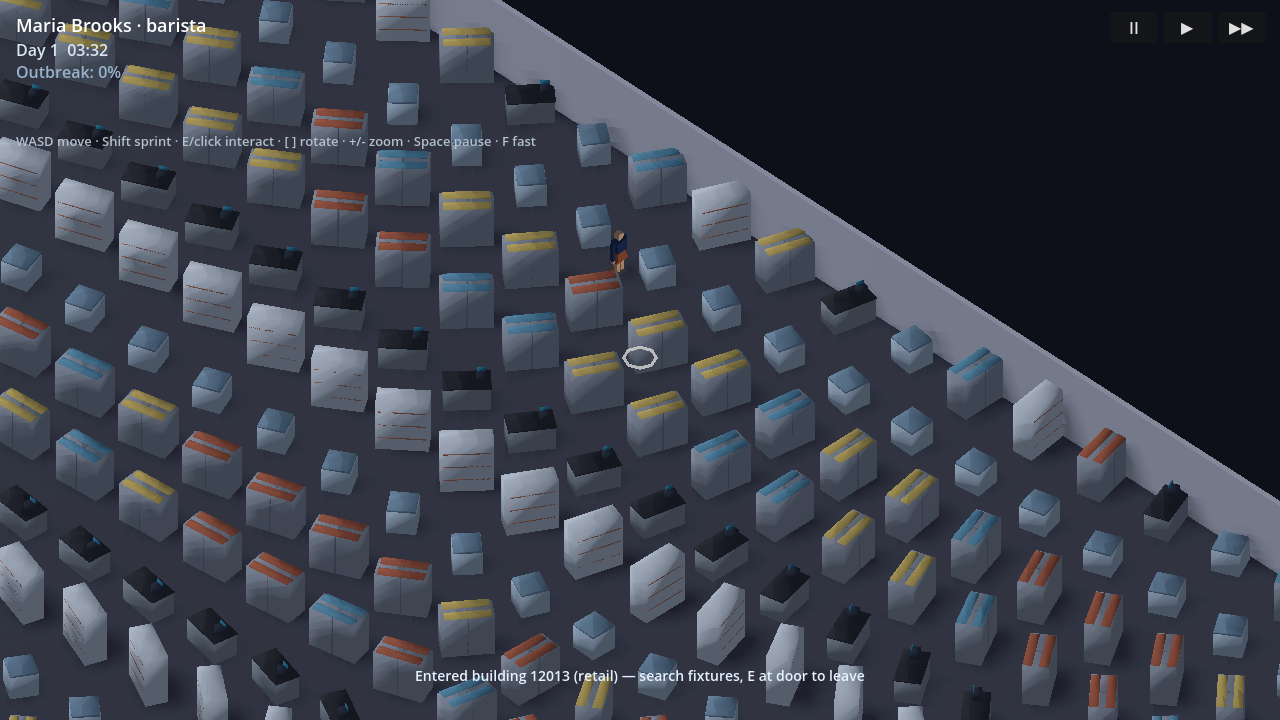
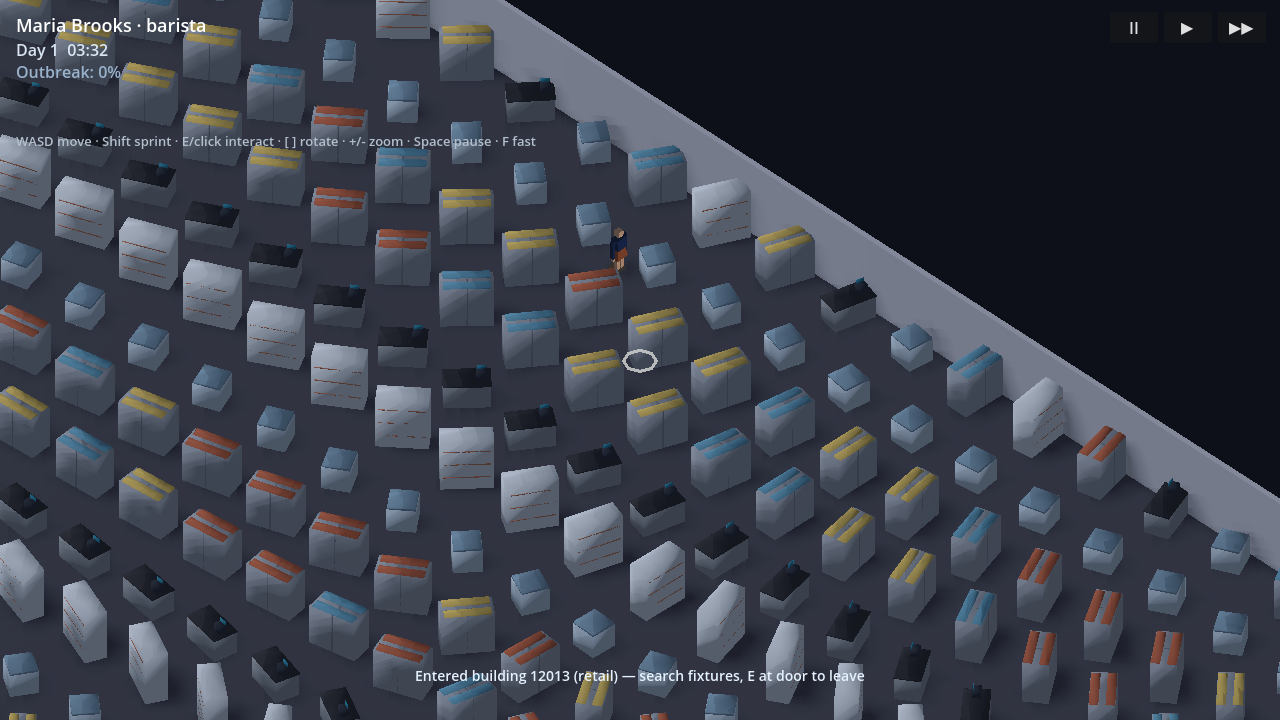
Work V1: rendered evidence regenerated on the final runtime; honest captions
Claude-Session: https://claude.ai/code/session_01MfFKHgQy5EGgjc8JQbTrNe

diff --git a/docs/work/SMART_OBJECTS_WORK_V1_REPORT.md b/docs/work/SMART_OBJECTS_WORK_V1_REPORT.md
@@ -321,14 +321,14 @@ in the manifest carry the authoritative rows at capture time.
 
 | file | what the frame shows |
 |---|---|
-| `00_arrival.png` | the shop floor cutaway with gondolas/fridge cases; the worker's body on the floor after the commute delivered it inside (a holder ring is visible) |
-| `01_walk_to_station.png` | the same room seconds later, the worker mid-floor between shelf rows walking to `so:12013:5` |
-| `02_using_station.png` | the worker at the register mesh, tinted with the `using` look, a gold holder ring at the station |
-| `03_service_interaction.png` | the register at the instant the SERVED event was drained; the cashier at the station. The customer body is not distinguishable in this frame — the service is evidenced by the event, not the pixels |
+| `00_arrival.png` | the sales-floor cutaway of workplace 12013 (gondolas and fridge cases) with the cashier's body on the floor after the commute delivered it inside (`doing_activity`, room 0). The white ring in the middle of the frame is the player marker, not a holder ring |
+| `01_walk_to_station.png` | the same room seconds later, the body a few metres further along between the shelf rows, walking to `so:12013:5` (`to_object`). Two stills cannot prove motion; the manifest row carries the phase |
+| `02_using_station.png` | the worker standing at the register fixture with the gold `using` highlight and holder ring at the station (`GET_ROOMS` holders = [68]) |
+| `03_service_interaction.png` | the register at the instant the SERVED event was drained (cashier 68 served customer 260); the cashier at the station with the ring. The customer body is not distinguishable in this frame — the service is evidenced by the event, not the pixels |
 | `04_task_switch.png` | after the cashier's task switched from `man_register` to `take_break` (object `so:12013:488`, phase `to_object`): the worker's body is on the sales floor between the gondolas, away from the register, walking toward the back room. The frame shows a body in motion; the task order itself is the authority's row in the manifest, not something the pixels prove |
 | `05_contention.png` | `so:12013:488` set `working=false` while held: the authority evicted the worker (`OBJECT_UNAVAILABLE`) and re-targeted it to `so:12013:494`; the frame, captured within the same second, is nearly identical to `04` (the body has barely moved). Substitution is evidenced by the manifest row and `GET_ROOMS` holders, not by this frame |
-| `06_interruption.png` | the back room after the shift ended: no interior body for the worker (it is outside), matching `state on_foot` |
-| `07_leaving.png` | the exterior parking lot; **the body exists but is not visible** — exterior bodies sit below this lot's surface mesh because the scene never calls `set_ground_y` (pre-existing, §19) |
+| `06_interruption.png` | after the shift ended (`CLOCK_OUT shift_end`, phase null, state `on_foot`): the exterior lot at the shop's door; **no worker body is visible** — the citizen is outside, and exterior bodies here sit below the lot surface (§19). The frame proves the interior no longer holds the worker, nothing more |
+| `07_leaving.png` | the exterior parking lot moments later; **the body exists (`exterior CitizenBody drawn: true`) but is not visible** for the same ground-height reason (pre-existing, §19) |
 | `08_after_promotion.png` | the back room (chairs, racks, lockers) after 10 game minutes with the player 1.5 km away and no body: the worker's body is recreated at the authoritative interior pose (0.00 m from it) on chair `so:12013:494`, with its gold holder ring |
 
 ## 18. Multi-agent interaction
